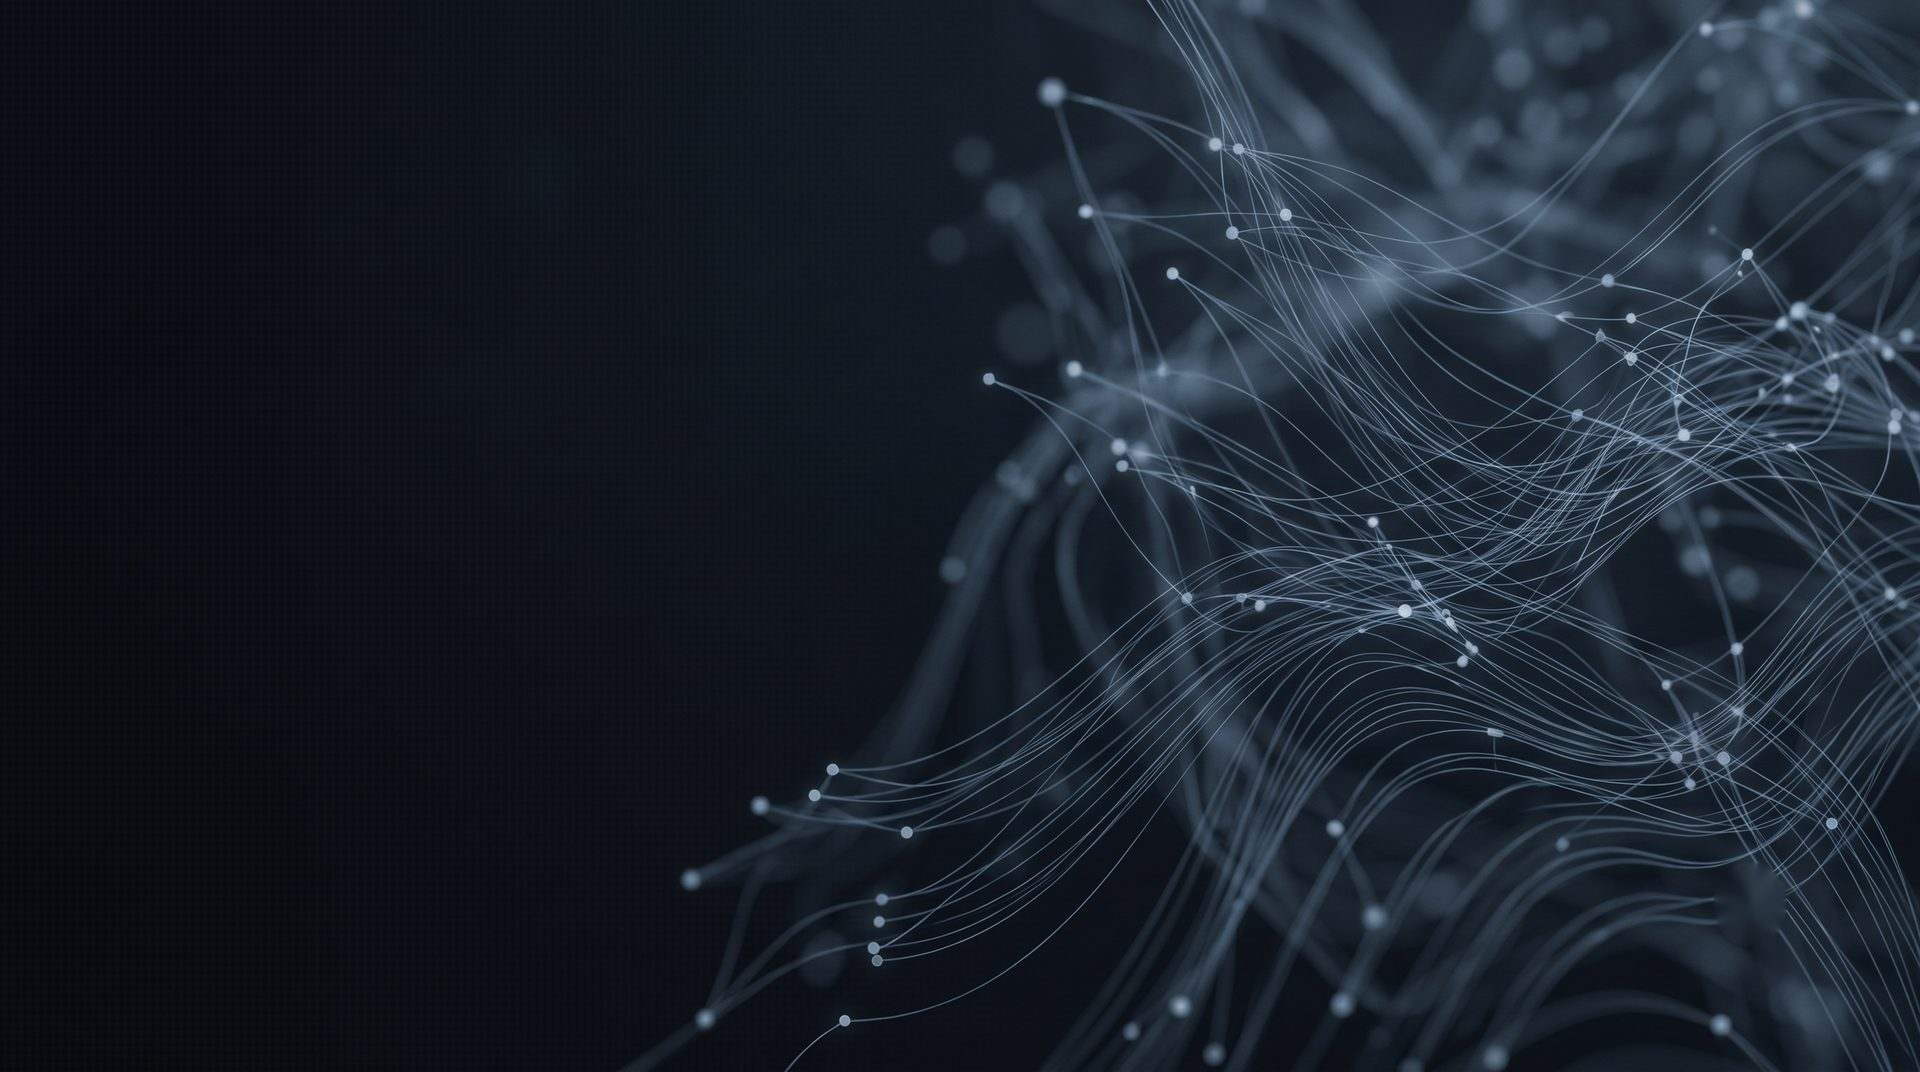
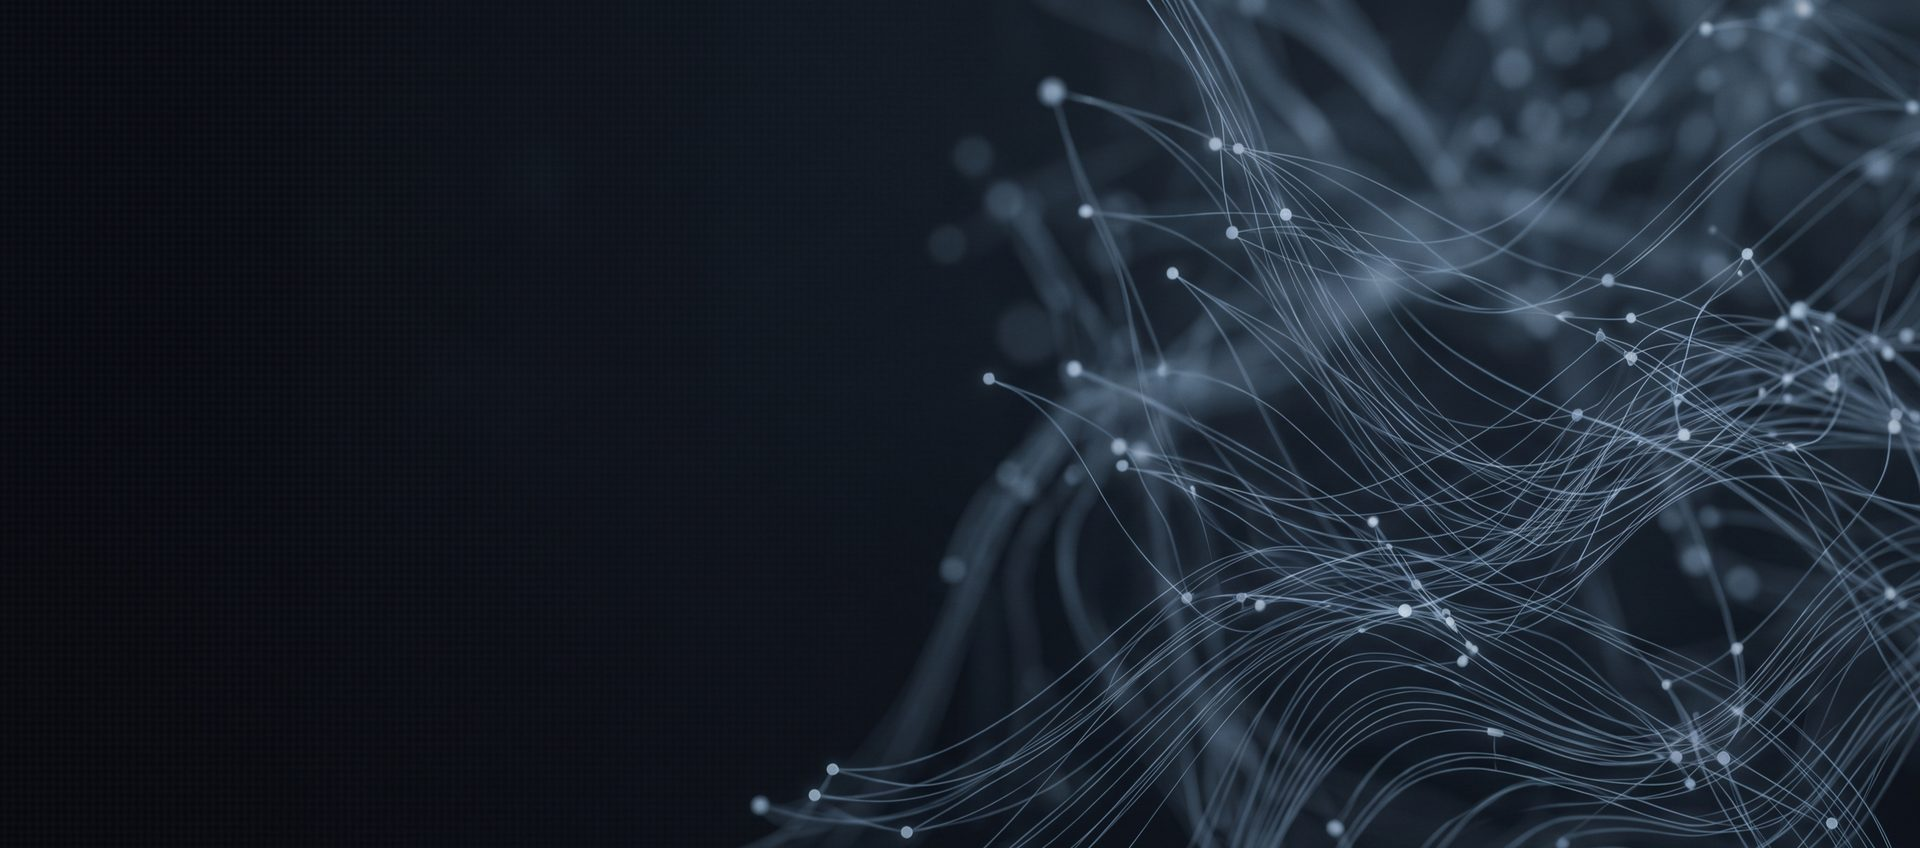
Use new watermark-free cropped hero image
Replace hero WebP/JPEG with the user's cropped 2.27:1 image (no watermark, wider composition). Update og:image height to 848.

Changed region(s): [[0.3438, 0.0, 1.0, 1.0]]

diff --git a/index.html b/index.html
@@ -13,7 +13,7 @@
   <meta property="og:description" content="Software Engineer & API Integration Specialist. 3+ years at Accenture building production REST/SOAP APIs, GIS tools, and AI-powered apps." />
   <meta property="og:image" content="https://thembrk.github.io/assets/hero_section.jpg" />
   <meta property="og:image:width" content="1920" />
-  <meta property="og:image:height" content="1072" />
+  <meta property="og:image:height" content="848" />
   <meta name="twitter:card" content="summary_large_image" />
   <meta name="twitter:title" content="Mark Cyril Tubera | Software Engineer" />
   <meta name="twitter:description" content="Software Engineer & API Integration Specialist — APIs, GIS, and AI-powered tools." />
